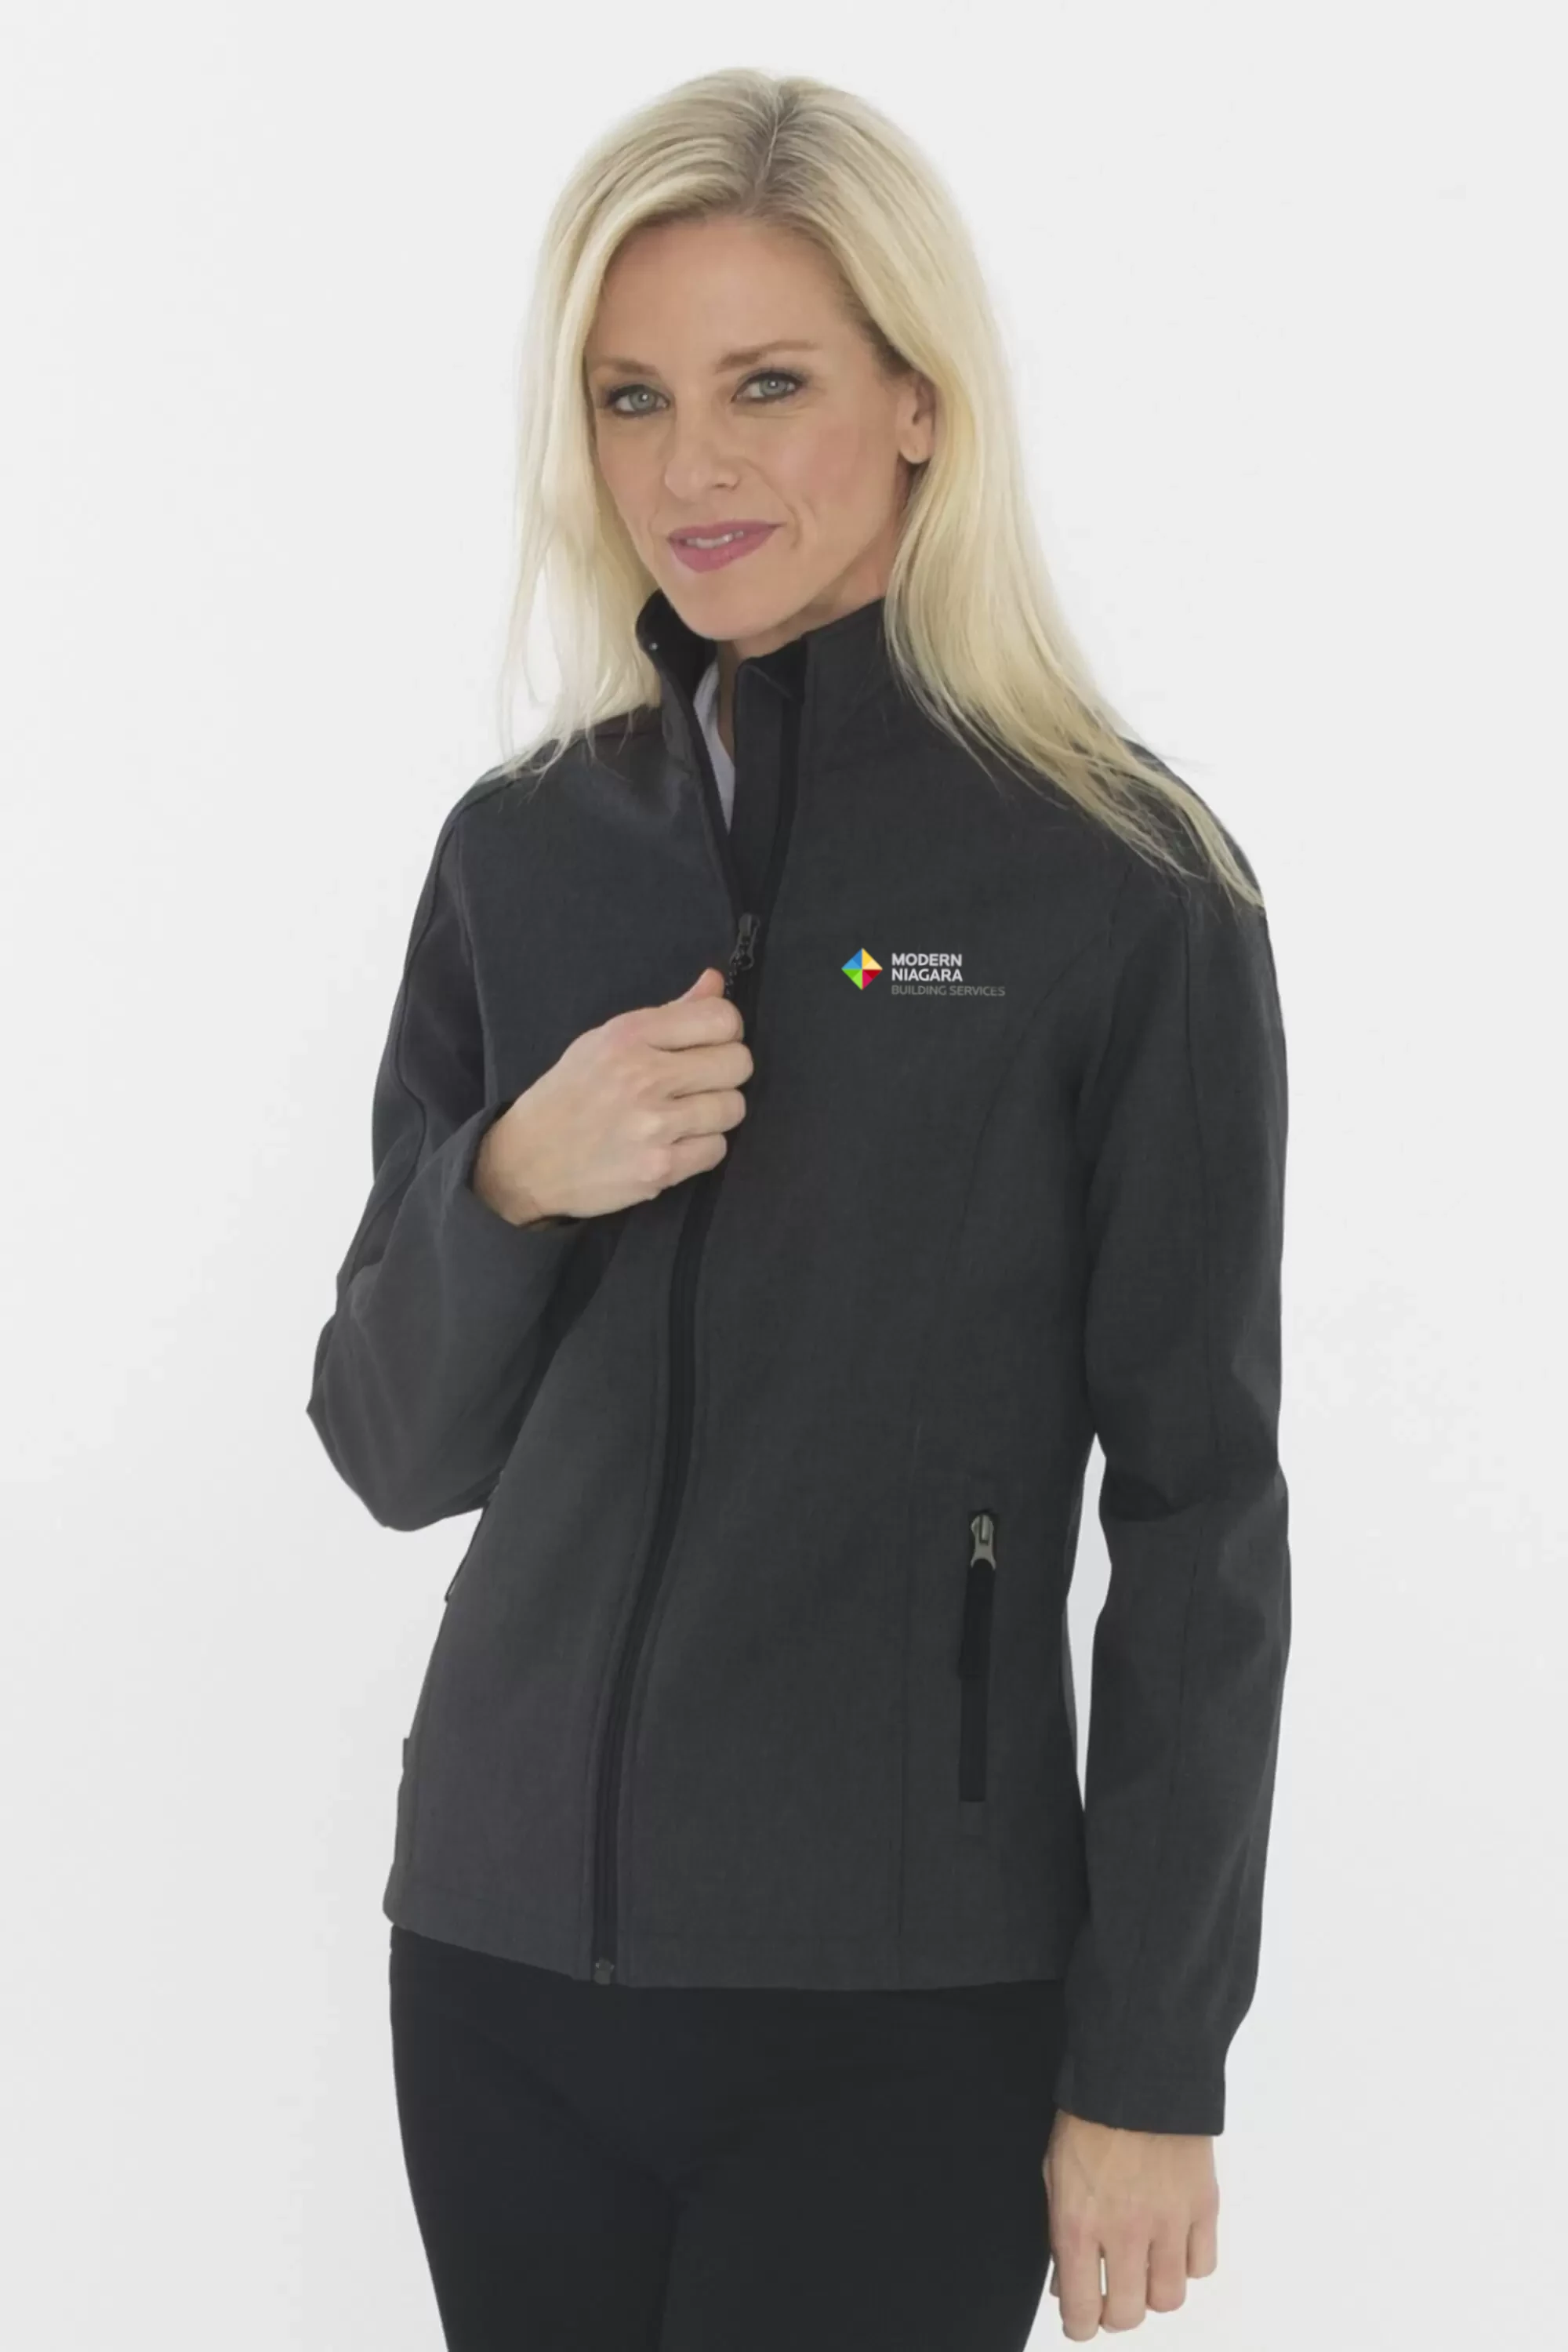
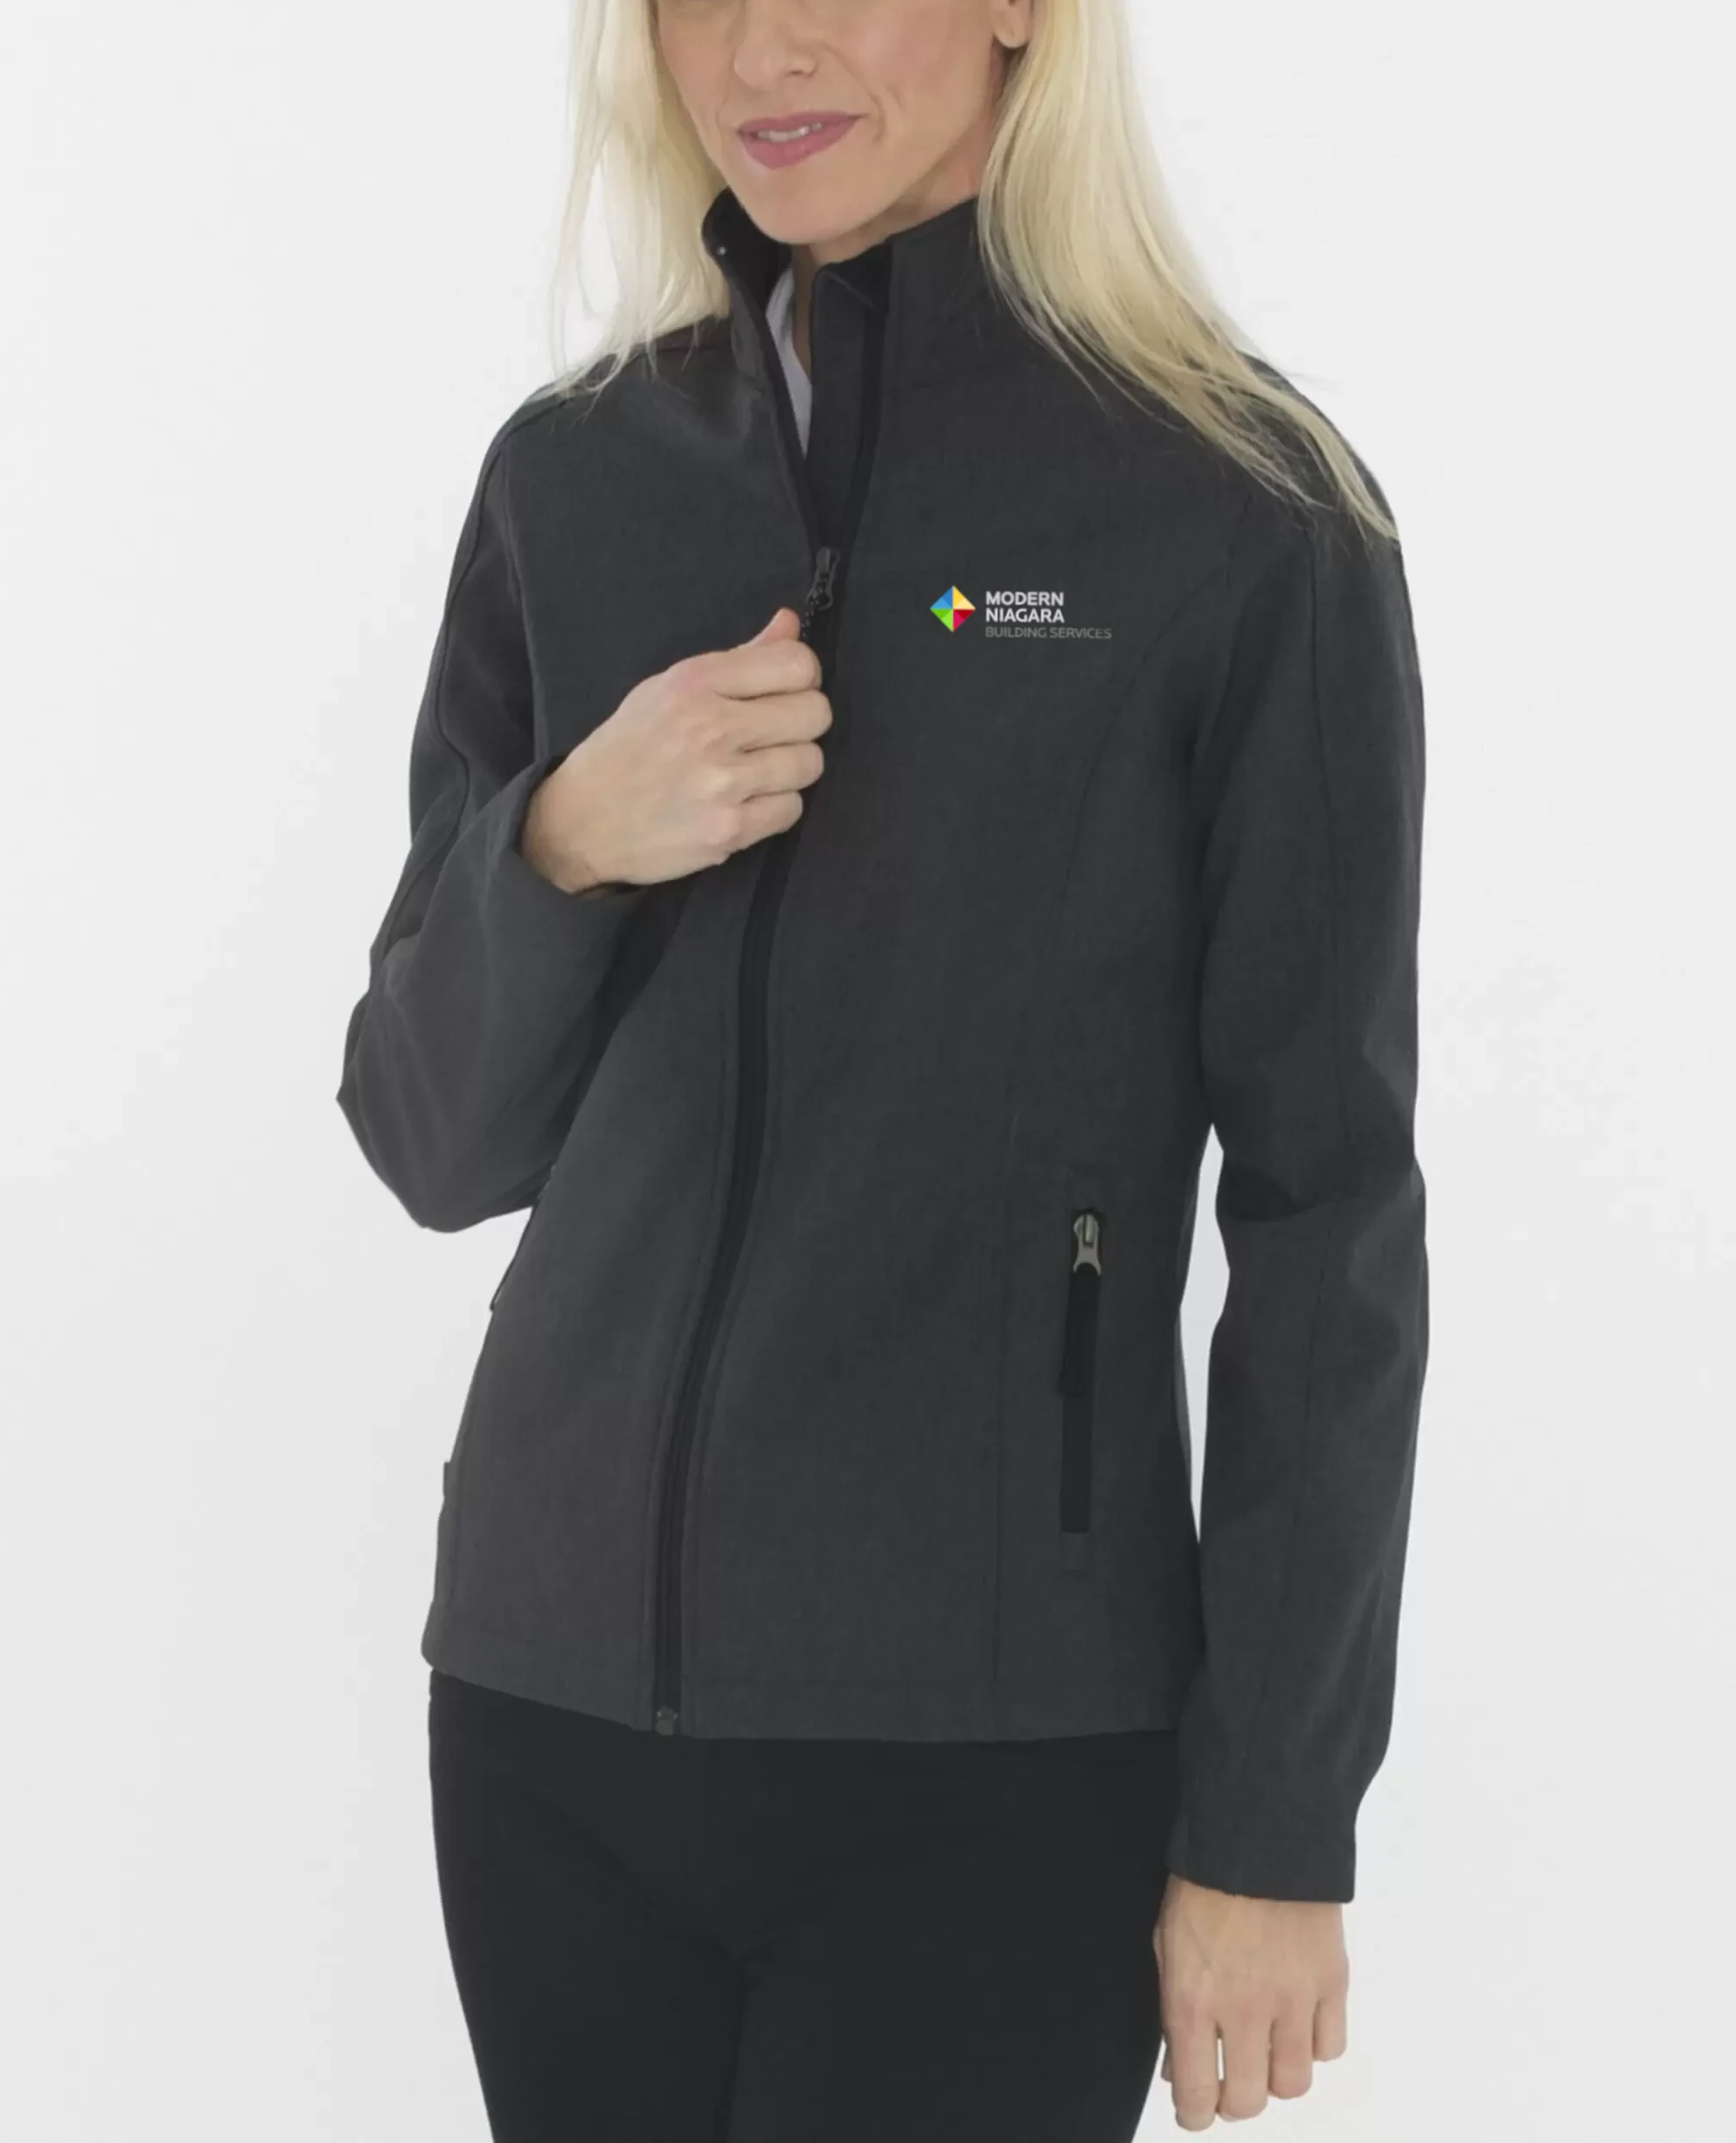
Catalog: jackets before shirts in All view; update womensjacket.webp to latest crop
- Reorder jacket SKUs ahead of shirts via Turso sort_order; regenerated products.ts
- Commit the re-cropped /womensjacket.webp (working copy differed from deployed)

diff --git a/src/routes/apparel/products.ts b/src/routes/apparel/products.ts
@@ -4,6 +4,99 @@ import type { Locale } from "../../i18n";
 
 export const allProducts = [
   {
+    "sku": "MN-7",
+    "name": "Winter Jacket - Navy",
+    "category": "Jackets",
+    "sizes": "S - 4XL",
+    "badge": "",
+    "colors": [
+      "#2c3e50"
+    ],
+    "price": 198.49,
+    "img": "/sku/mwinterjacket.png",
+    "imgs": [
+      "/sku/mwinterjacket.png",
+      "/sku/winterjacket.png"
+    ],
+    "material": "12 oz 100% ringspun cotton duck shell, quilted nylon lining, Arctic-weight polyester insulation",
+    "details": "Two-way brass zip, pleated bi-swing back, internal rib-knit storm cuffs, four exterior pockets, two interior pockets, triple-stitched seams, #106674"
+  },
+  {
+    "sku": "MN-9",
+    "name": "Pullover Hoodie - Navy",
+    "category": "Jackets",
+    "sizes": "S - 4XL",
+    "badge": "",
+    "colors": [
+      "#2c3e50"
+    ],
+    "price": 74.99,
+    "img": "/sku/pullover.png",
+    "imgs": [
+      "/sku/pullover.png"
+    ],
+    "material": "10.5 oz midweight 50% cotton / 50% polyester blend",
+    "details": "Three-piece hood with drawcord, rib-knit cuffs and waist, front handwarmer pocket, triple-stitched seams, Carhartt patch, #K121"
+  },
+  {
+    "sku": "MN-10",
+    "name": "Full Zip Hoodie - Navy",
+    "category": "Jackets",
+    "sizes": "S - 4XL",
+    "badge": "",
+    "colors": [
+      "#2c3e50"
+    ],
+    "price": 89.99,
+    "img": "/sku/mfullzip.png",
+    "imgs": [
+      "/sku/mfullzip.png",
+      "/sku/fullziphoodie.png"
+    ],
+    "material": "10.5 oz midweight 50% cotton / 50% polyester blend",
+    "details": "Three-piece hood with drawcord, full-length brass zipper, rib-knit cuffs and waist, two front handwarmer pockets, Carhartt patch on pocket, loose fit, #K122"
+  },
+  {
+    "sku": "MN-20",
+    "name": "Men's Soft Shell Jacket",
+    "category": "Jackets",
+    "sizes": "XS - 6XL",
+    "badge": "",
+    "colors": [
+      "#1a1a18",
+      "#6e6e6e",
+      "#2c3e50"
+    ],
+    "price": 0,
+    "img": "/j7603model.webp",
+    "imgs": [
+      "/j7603model.webp",
+      "/sku/mens-jacket.webp"
+    ],
+    "material": "100% polyester woven soft shell bonded to 100% polyester microfleece",
+    "details": "Center front reverse coil zipper, chin guard, princess seams, two front zippered pockets, interior pocket, open cuffs and hem, anti-pill microfleece interior, Port Authority, #J7603"
+  },
+  {
+    "sku": "MN-19",
+    "name": "Women's Soft Shell Jacket",
+    "category": "Jackets",
+    "sizes": "XS - 4XL",
+    "badge": "",
+    "colors": [
+      "#1a1a18",
+      "#6e6e6e",
+      "#2c3e50"
+    ],
+    "price": 0,
+    "img": "/womensjacket.webp",
+    "imgs": [
+      "/womensjacket.webp",
+      "/sku/women-jacket.jpg"
+    ],
+    "material": "100% polyester woven soft shell bonded to 100% polyester microfleece",
+    "details": "Center front reverse coil zipper, chin guard, princess seams, two front zippered pockets, interior pocket, open cuffs and hem, anti-pill microfleece interior, Port Authority, #L7603"
+  },
+  {
     "sku": "MN-3",
     "name": "Short Sleeve T-Shirt - Navy",
     "category": "Shirts",
@@ -119,99 +212,6 @@ export const allProducts = [
     ],
     "material": "ProDry® performance polyester",
     "details": "Moisture-wicking, anti-microbial, double-stitched seams, lock-stitched hem, extended back shirt tail, machine washable, FootJoy, #96324"
-  },
-  {
-    "sku": "MN-7",
-    "name": "Winter Jacket - Navy",
-    "category": "Jackets",
-    "sizes": "S - 4XL",
-    "badge": "",
-    "colors": [
-      "#2c3e50"
-    ],
-    "price": 198.49,
-    "img": "/sku/mwinterjacket.png",
-    "imgs": [
-      "/sku/mwinterjacket.png",
-      "/sku/winterjacket.png"
-    ],
-    "material": "12 oz 100% ringspun cotton duck shell, quilted nylon lining, Arctic-weight polyester insulation",
-    "details": "Two-way brass zip, pleated bi-swing back, internal rib-knit storm cuffs, four exterior pockets, two interior pockets, triple-stitched seams, #106674"
-  },
-  {
-    "sku": "MN-9",
-    "name": "Pullover Hoodie - Navy",
-    "category": "Jackets",
-    "sizes": "S - 4XL",
-    "badge": "",
-    "colors": [
-      "#2c3e50"
-    ],
-    "price": 74.99,
-    "img": "/sku/pullover.png",
-    "imgs": [
-      "/sku/pullover.png"
-    ],
-    "material": "10.5 oz midweight 50% cotton / 50% polyester blend",
-    "details": "Three-piece hood with drawcord, rib-knit cuffs and waist, front handwarmer pocket, triple-stitched seams, Carhartt patch, #K121"
-  },
-  {
-    "sku": "MN-10",
-    "name": "Full Zip Hoodie - Navy",
-    "category": "Jackets",
-    "sizes": "S - 4XL",
-    "badge": "",
-    "colors": [
-      "#2c3e50"
-    ],
-    "price": 89.99,
-    "img": "/sku/mfullzip.png",
-    "imgs": [
-      "/sku/mfullzip.png",
-      "/sku/fullziphoodie.png"
-    ],
-    "material": "10.5 oz midweight 50% cotton / 50% polyester blend",
-    "details": "Three-piece hood with drawcord, full-length brass zipper, rib-knit cuffs and waist, two front handwarmer pockets, Carhartt patch on pocket, loose fit, #K122"
-  },
-  {
-    "sku": "MN-20",
-    "name": "Men's Soft Shell Jacket",
-    "category": "Jackets",
-    "sizes": "XS - 6XL",
-    "badge": "",
-    "colors": [
-      "#1a1a18",
-      "#6e6e6e",
-      "#2c3e50"
-    ],
-    "price": 0,
-    "img": "/j7603model.webp",
-    "imgs": [
-      "/j7603model.webp",
-      "/sku/mens-jacket.webp"
-    ],
-    "material": "100% polyester woven soft shell bonded to 100% polyester microfleece",
-    "details": "Center front reverse coil zipper, chin guard, princess seams, two front zippered pockets, interior pocket, open cuffs and hem, anti-pill microfleece interior, Port Authority, #J7603"
-  },
-  {
-    "sku": "MN-19",
-    "name": "Women's Soft Shell Jacket",
-    "category": "Jackets",
-    "sizes": "XS - 4XL",
-    "badge": "",
-    "colors": [
-      "#1a1a18",
-      "#6e6e6e",
-      "#2c3e50"
-    ],
-    "price": 0,
-    "img": "/womensjacket.webp",
-    "imgs": [
-      "/womensjacket.webp",
-      "/sku/women-jacket.jpg"
-    ],
-    "material": "100% polyester woven soft shell bonded to 100% polyester microfleece",
-    "details": "Center front reverse coil zipper, chin guard, princess seams, two front zippered pockets, interior pocket, open cuffs and hem, anti-pill microfleece interior, Port Authority, #L7603"
   },
   {
     "sku": "MN-1",

diff --git a/scripts/reorder-jackets-first.ts b/scripts/reorder-jackets-first.ts
@@ -1,0 +1,38 @@
+import { createClient } from "@libsql/client";
+import { config } from "dotenv";
+
+config();
+
+const db = createClient({
+  url: process.env.TURSO_URL || process.env.VITE_TURSO_URL || "",
+  authToken: process.env.TURSO_AUTH_TOKEN || process.env.VITE_TURSO_AUTH_TOKEN || undefined,
+});
+
+// Move the Jackets ahead of the Shirts (10,11) in the "All" view, keeping their
+// current relative order. Jackets currently sit at sort_order 20-24.
+const JACKET_ORDER: Record<string, number> = {
+  "MN-7": 4,
+  "MN-9": 5,
+  "MN-10": 6,
+  "MN-20": 7,
+  "MN-19": 8,
+};
+
+console.log("Before:");
+const before = await db.execute(
+  "SELECT sku, category, sort_order FROM products WHERE vendor='modernniagara' AND category IN ('Jackets','Shirts') ORDER BY sort_order ASC"
+);
+for (const r of before.rows as any[]) console.log(`  ${String(r.sort_order).padStart(3)}  ${r.sku} ${r.category}`);
+
+for (const [sku, order] of Object.entries(JACKET_ORDER)) {
+  await db.execute({
+    sql: "UPDATE products SET sort_order=? WHERE vendor='modernniagara' AND sku=?",
+    args: [order, sku],
+  });
+}
+
+console.log("\nAfter:");
+const after = await db.execute(
+  "SELECT sku, category, sort_order FROM products WHERE vendor='modernniagara' AND category IN ('Jackets','Shirts') ORDER BY sort_order ASC"
+);
+for (const r of after.rows as any[]) console.log(`  ${String(r.sort_order).padStart(3)}  ${r.sku} ${r.category}`);